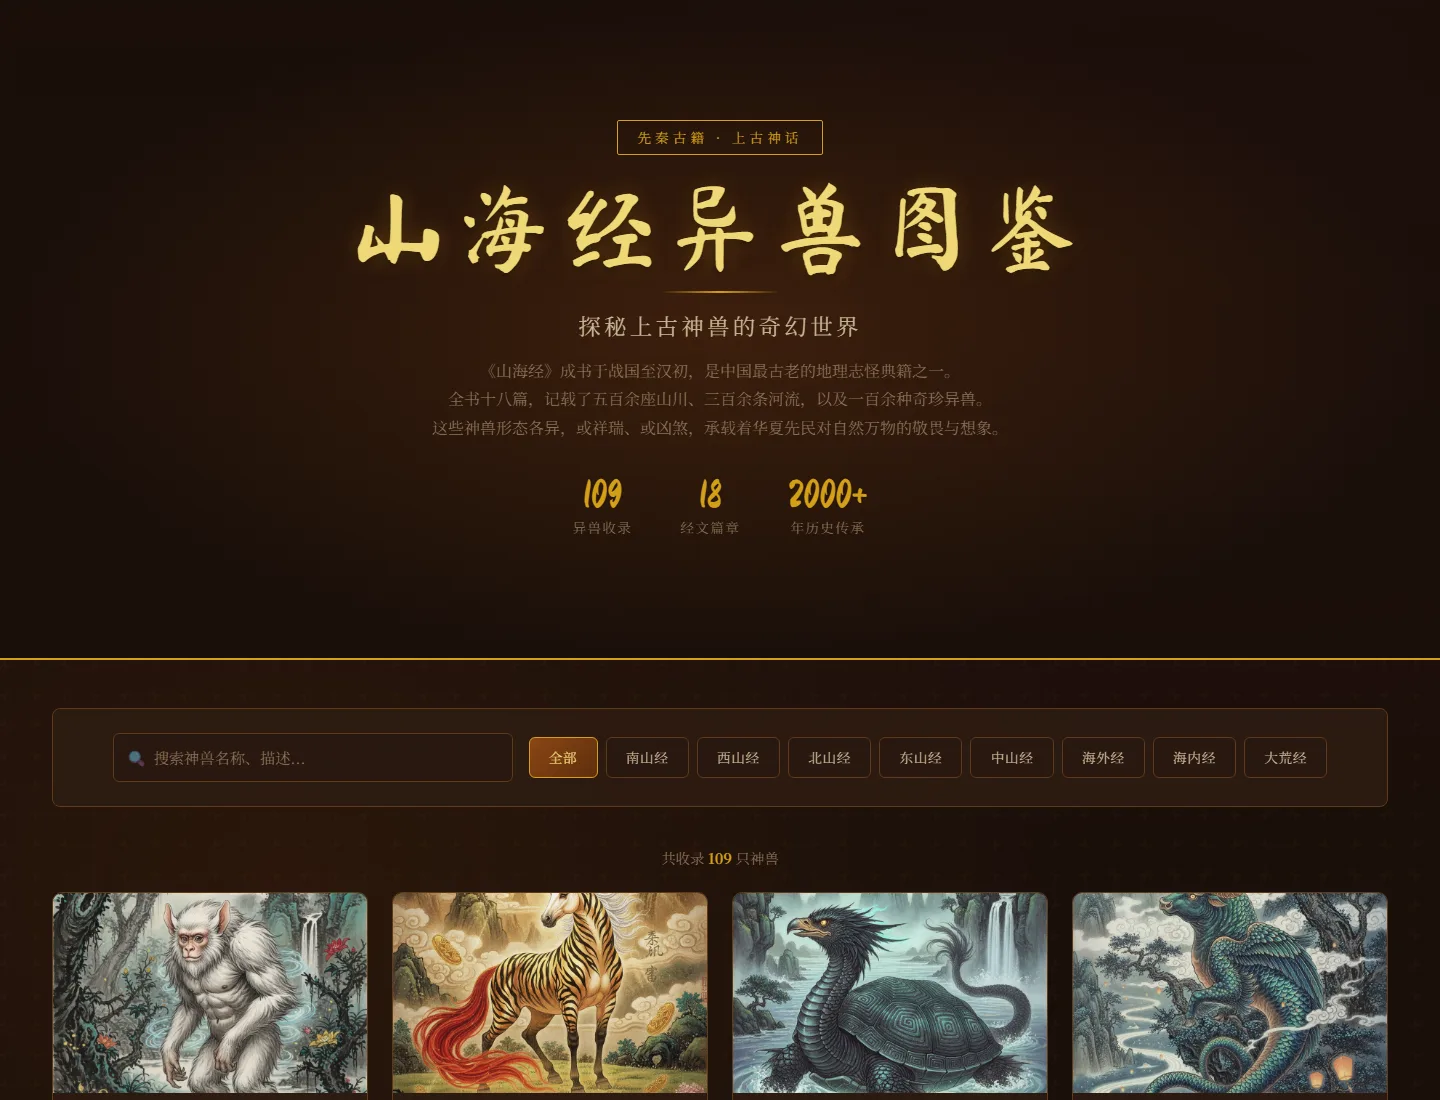
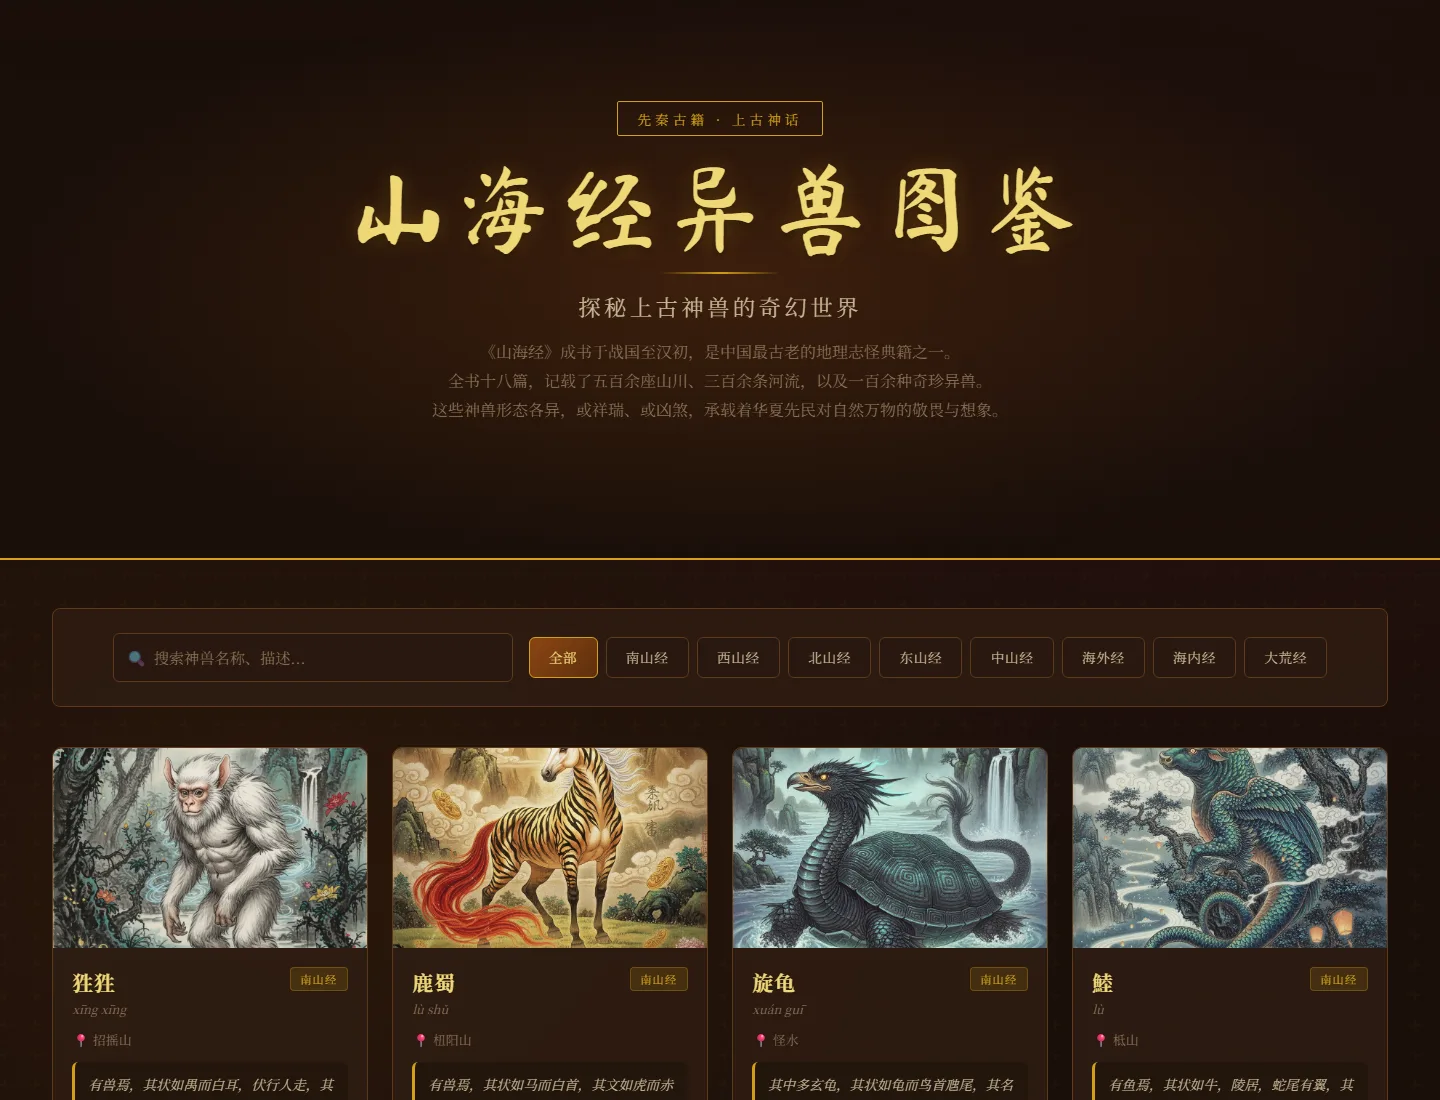
fix(docs): correct collection count wording

diff --git a/docs/superpowers/plans/2026-07-17-github-project-introduction.md b/docs/superpowers/plans/2026-07-17-github-project-introduction.md
@@ -4,7 +4,7 @@
 
 **Goal:** 为《山海经异兽图鉴》补齐产品型 README、真实页面预览和 GitHub 仓库元数据，让普通文化爱好者能快速理解并体验项目。
 
-**Architecture:** 保持现有纯静态站点不变，只新增仓库展示层。README 引用一张从生产站点截取的 WebP 预览图；GitHub About、Homepage 和 Topics 通过 GitHub CLI 更新并回读验证。
+**Architecture:** 保持现有纯静态站点不变，只新增仓库展示层。README 引用一张从生产站点截取的 WebP 预览图；截图会话通过浏览器 DOM 临时隐藏旧数量口径，不改生产文件；GitHub About、Homepage 和 Topics 通过 GitHub CLI 更新并回读验证。
 
 **Tech Stack:** Markdown, HTML/CSS/vanilla JavaScript, PowerShell, Chrome headless, FFmpeg, GitHub CLI, Vercel
 
@@ -34,21 +34,21 @@ New-Item -ItemType Directory -Path 'docs\assets' -Force | Out-Null
 
 Expected: `docs/assets/` exists; `CLAUDE.md` already identifies it as documentation preview storage.
 
-- [ ] **Step 2: Capture the real production page**
+- [ ] **Step 2: Capture the real production page with corrected visible scope**
 
-Run:
+Start Chrome headless at `1440x1100` with remote debugging, open the production URL, then use CDP `Runtime.evaluate` before `Page.captureScreenshot`:
 
-```powershell
-& 'C:\Program Files\Google\Chrome\Application\chrome.exe' `
-  --headless=new `
-  --disable-gpu `
-  --hide-scrollbars `
-  --window-size=1440,1100 `
-  --screenshot="$PWD\docs\assets\project-preview-source.png" `
-  'https://shanhaijing-alpha.vercel.app/'
+```javascript
+for (const selector of ['.hero-stats', '.results-count']) {
+  const element = document.querySelector(selector);
+  if (!element) throw new Error(`Missing screenshot selector: ${selector}`);
+  element.style.setProperty('display', 'none', 'important');
+}
 ```
 
-Expected: Chrome exits successfully and creates `docs/assets/project-preview-source.png` showing the title, filter controls, and first row of beast cards.
+If hiding the counters leaves excessive space, the same temporary CDP session may reduce `.hero`'s `min-height`. Do not edit `index.html` or any production file.
+
+Expected: CDP confirms both selectors were hidden, then creates `docs/assets/project-preview-source.png` at `1440x1100` showing the title, filter controls, and first row of beast cards without the stale count text.
 
 - [ ] **Step 3: Convert and compress the screenshot**
 
@@ -116,7 +116,7 @@ Use `apply_patch` to create `README.md` with exactly this content:
 
 # 山海经异兽图鉴
 
-可搜索、可分类浏览的《山海经》异兽数字图鉴，收录 109 种异兽及原文、释义与插图。
+可搜索、可分类浏览的《山海经》异兽数字图鉴，汇集 109 条图鉴记录，涵盖 89 个异兽名称及原文、释义与插图。
 
 [**在线体验 →**](https://shanhaijing-alpha.vercel.app/)
 
@@ -128,7 +128,7 @@ Use `apply_patch` to create `README.md` with exactly this content:
 
 这个项目把《山海经》中的异兽整理成可浏览的数字图鉴。它适合传统文化爱好者快速查找异兽、阅读原文，并通过通俗解释理解古籍中的形态、地点与传说。
 
-- **109 种异兽**：以卡片形式集中浏览名称、拼音、地点与核心特征。
+- **109 条图鉴记录**：涵盖 89 个异兽名称，以卡片形式集中浏览名称、拼音、地点与核心特征。
 - **八类经文筛选**：覆盖南山经、西山经、北山经、东山经、中山经、海外经、海内经与大荒经。
 - **全文搜索**：可按名称、拼音、原文和解释查找内容。
 - **详情阅读**：展开查看原文、原文要点、通俗解释与插图。
@@ -137,6 +137,8 @@ Use `apply_patch` to create `README.md` with exactly this content:
 ## 数据内容
 
 异兽数据集中保存在 [`beasts_data.json`](beasts_data.json)，每条记录包含：
+
+当前数据文件共有109条记录，对应89个异兽名称；部分名称存在重复条目。
 
 | 字段 | 内容 |
 | --- | --- |
@@ -189,24 +191,36 @@ Run:
 ```powershell
 $data = Get-Content -LiteralPath 'beasts_data.json' -Encoding utf8 -Raw | ConvertFrom-Json
 $categories = @($data.category | Sort-Object -Unique)
+$names = @($data.name | Sort-Object -Unique)
 $readme = Get-Content -LiteralPath 'README.md' -Encoding utf8 -Raw
 
 if ($data.Count -ne 109) {
-  throw "Expected 109 beasts, found $($data.Count)."
+  throw "Expected 109 data rows, found $($data.Count)."
+}
+
+if ($names.Count -ne 89) {
+  throw "Expected 89 unique beast names, found $($names.Count)."
 }
 
 if ($categories.Count -ne 8) {
   throw "Expected 8 categories, found $($categories.Count)."
 }
 
-if (-not $readme.Contains('109 种异兽') -or -not $readme.Contains('八类经文筛选')) {
+if (-not $readme.Contains('109 条图鉴记录') -or
+    -not $readme.Contains('89 个异兽名称') -or
+    -not $readme.Contains('八类经文筛选')) {
   throw 'README does not contain the verified collection counts.'
 }
 
+if ($readme -match '109\s+种异兽|109\s*只神兽') {
+  throw 'README still contains a misleading collection count.'
+}
+
+$names.Count
 $categories
 ```
 
-Expected: eight category names are printed and no exception is raised.
+Expected: unique name count is `89`, eight category names are printed, and no exception is raised.
 
 - [ ] **Step 3: Verify README links and local asset paths**
 
@@ -366,7 +380,7 @@ Run:
 gh api `
   --method PATCH `
   repos/ZSLPZDZH/shanhaijing-bestiaire `
-  -f 'description=可搜索、可分类浏览的《山海经》异兽数字图鉴，收录 109 种异兽及原文、释义与插图。' `
+  -f 'description=可搜索、可分类浏览的《山海经》异兽数字图鉴，汇集 109 条图鉴记录，涵盖 89 个异兽名称及原文、释义与插图。' `
   -f 'homepage=https://shanhaijing-alpha.vercel.app/'
 ```
 
@@ -406,7 +420,7 @@ Run:
 $repo = gh repo view ZSLPZDZH/shanhaijing-bestiaire `
   --json description,homepageUrl,repositoryTopics | ConvertFrom-Json
 
-$expectedDescription = '可搜索、可分类浏览的《山海经》异兽数字图鉴，收录 109 种异兽及原文、释义与插图。'
+$expectedDescription = '可搜索、可分类浏览的《山海经》异兽数字图鉴，汇集 109 条图鉴记录，涵盖 89 个异兽名称及原文、释义与插图。'
 $expectedHomepage = 'https://shanhaijing-alpha.vercel.app/'
 $expectedTopics = @(
   'bestiary',
@@ -488,3 +502,4 @@ Do not run `git push`, create a remote branch, or merge into `main`. Report the 
 - Scope: no site behavior, visual design, dependency, deployment, license, contribution workflow, or remote branch change is included.
 - Placeholder scan: the plan contains no unresolved placeholders or deferred decisions.
 - Command consistency: all repository files use relative paths; external targets use the exact GitHub repository and verified Vercel URL.
+- Fact correction: all public-facing counts distinguish 109 data rows from 89 unique beast names; verification also checks 8 categories.

diff --git a/README.md b/README.md
@@ -2,7 +2,7 @@
 
 # 山海经异兽图鉴
 
-可搜索、可分类浏览的《山海经》异兽数字图鉴，收录 109 种异兽及原文、释义与插图。
+可搜索、可分类浏览的《山海经》异兽数字图鉴，汇集 109 条图鉴记录，涵盖 89 个异兽名称及原文、释义与插图。
 
 [**在线体验 →**](https://shanhaijing-alpha.vercel.app/)
 
@@ -14,7 +14,7 @@
 
 这个项目把《山海经》中的异兽整理成可浏览的数字图鉴。它适合传统文化爱好者快速查找异兽、阅读原文，并通过通俗解释理解古籍中的形态、地点与传说。
 
-- **109 种异兽**：以卡片形式集中浏览名称、拼音、地点与核心特征。
+- **109 条图鉴记录**：涵盖 89 个异兽名称，以卡片形式集中浏览名称、拼音、地点与核心特征。
 - **八类经文筛选**：覆盖南山经、西山经、北山经、东山经、中山经、海外经、海内经与大荒经。
 - **全文搜索**：可按名称、拼音、原文和解释查找内容。
 - **详情阅读**：展开查看原文、原文要点、通俗解释与插图。
@@ -23,6 +23,8 @@
 ## 数据内容
 
 异兽数据集中保存在 [`beasts_data.json`](beasts_data.json)，每条记录包含：
+
+当前数据文件共有109条记录，对应89个异兽名称；部分名称存在重复条目。
 
 | 字段 | 内容 |
 | --- | --- |